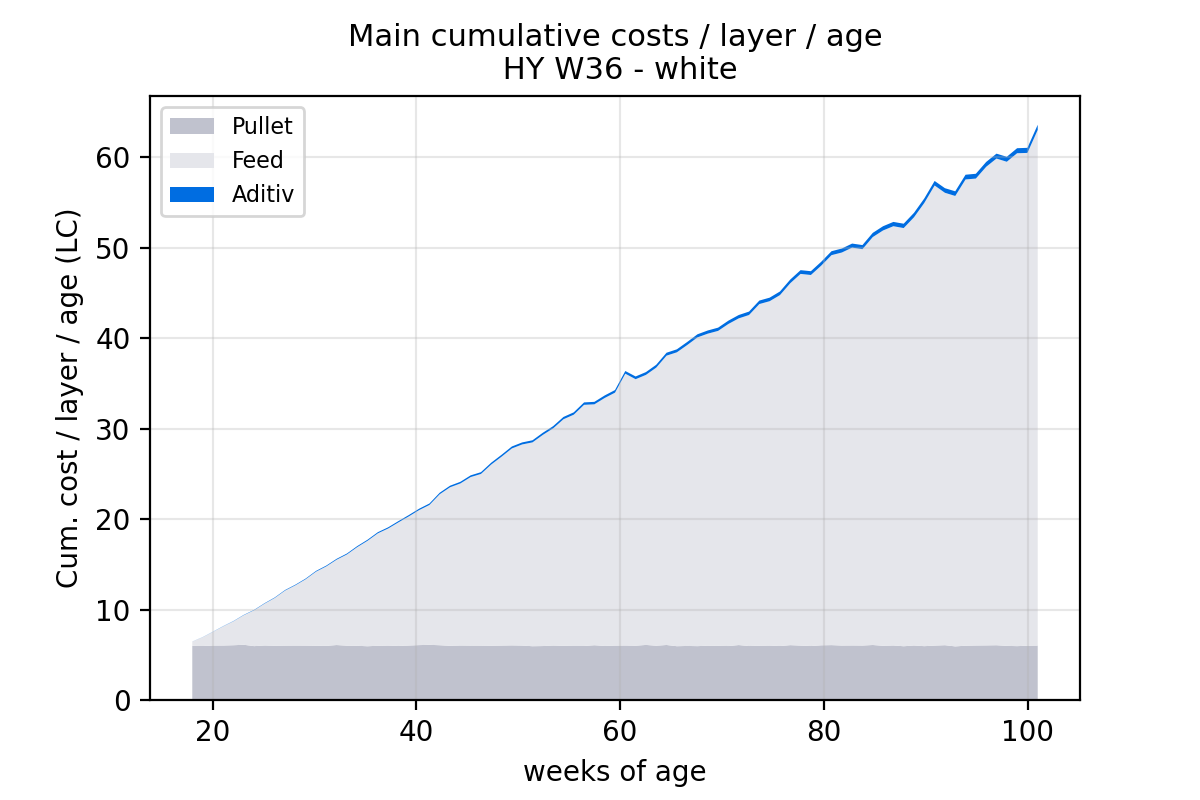
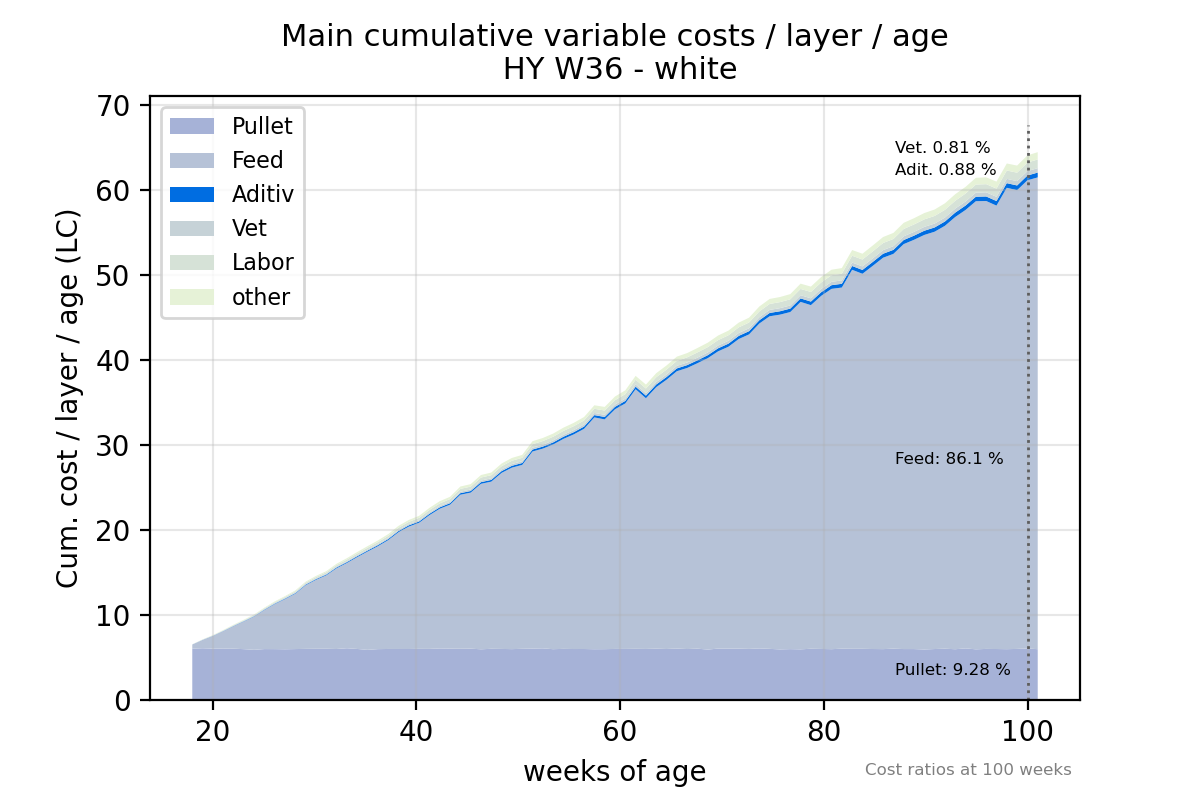
stackplot with annotations

diff --git a/layer_performance_py.py b/layer_performance_py.py
@@ -631,6 +631,9 @@ delta_max_y_1 = delta_cum_median_layer_week_1[delta_cum_median_layer_week_1.argm
 
 weeks_axis =np.linspace(18, production_wks + 18, production_wks)   # creat axis for charts (production weeks)
 
+#min_pullet = np.amin(pullet_cost_median_1)
+
+
 ####################################### cost charts ################################
 #stackplot_colors = ["#d47332", "#377369", "#006de1"]
 #stackplot_labels =['Pullet', 'Feed', 'Aditiv']
@@ -640,6 +643,9 @@ ax.stackplot(weeks_axis,
              pullet_cost_median_1,
              feed_cost_cum_median_week_1_no_add,
              aditiv_cum_cost_median_layer_week_1,
+             vetcost_cum_cost_median_layer_week_1,
+             labor_cum_cost_median_layer_week_1,
+             other_cum_cost_median_layer_week_1,
              colors = stackplot_colors,
              labels = stackplot_labels,
              alpha = 1)
@@ -657,12 +663,53 @@ ax.set_ylabel(stack_ylabel_1,
 ax.set_xlabel(stack_xlabel_1,
               fontsize=fontsize_x_axis_1,
               )
+# text for % of each cost parameter
+
+ax.text(row_anal+5,
+        (feed_cost_cum_median_week_1_no_add[row_anal, ]/2),
+        'Feed: {} %'.format(round_np(feed_perc_cost_cum_median_week_1_no_add[row_anal,])),
+        fontsize = fontsize_annot_1,
+        )
+ax.text(row_anal+5,
+        (pullet_cost_median_1[row_anal, ]/2),
+        'Pullet: {} %'.format(round_np(pullet_perc_cost_median_1[row_anal,])),
+        fontsize = fontsize_annot_1,
+        )
+
+ax.text(row_anal+5,
+        aditiv_cum_cost_median_layer_week_1[row_anal,]/2 +
+         feed_cost_cum_median_week_1_no_add[row_anal, ] +
+         pullet_cost_median_1[row_anal, ],
+        'Adit. {} %'.format(round_np(aditiv_perc_cost_cum_median_week_1[row_anal,])),
+        fontsize = fontsize_annot_1,
+        )
+
+ax.text(row_anal+5,
+        vetcost_cum_cost_q1_layer_week_1[row_anal,]/2 +
+        aditiv_cum_cost_median_layer_week_1[row_anal,] +
+         feed_cost_cum_median_week_1_no_add[row_anal, ] +
+         pullet_cost_median_1[row_anal, ] + 2,
+        'Vet. {} %'.format(round_np(vetcost_perc_cost_cum_median_week_1[row_anal,])),
+        fontsize = fontsize_annot_1,
+        )
+ymin, ymax = plt.ylim()
+ax.vlines(row_anal+18,
+          ymin,
+          ymax,
+          colors='#5d5d5d',
+          linewidth = line_with_1,
+          linestyle = line_sty_1)
+
+ax.text(84, (ymax-ymin)*.13*-1,
+        'Cost ratios at {} weeks'.format(row_anal+18),
+        fontsize = fontsize_annot_1,
+        alpha=.5)
+
 plt.savefig('main_costs_age.png',
             dpi=dpi_charts,
             transparent=-True,
             )
 plt.show()
-
 
 
 ###################################### operational return chart #####################

diff --git a/setup_charts_parameters.py b/setup_charts_parameters.py
@@ -10,7 +10,7 @@ fontsize_title_1 =11
 fontsize_x_axis_1 =10
 fontsize_y_axis_1 =10
 fontsize_legend_1 =8
-fontsize_annot_1 =8
+fontsize_annot_1 =6
 fontsize_copyright =8
 
 fontstyle_label_1 ='normal'  # normal italic oblique
@@ -26,11 +26,24 @@ dpi_charts = 200 # resolution of the graph files
 
 ###########################################################################################
 # Stackplot parameters -  # colors of the stackplots (1 - pullet, 2 - feed, 3 - feed aditiv)
-stackplot_colors = ["#c0c2ce",\
-		    "#e5e6eb",\
- 		     "#006de1"]
+stackplot_colors = [\
+             "#a6b2d7",\
+		     "#b6c2d7",\
+ 		     "#006de1",\
+             '#c6d2d7',\
+             '#d6e2d7',
+             '#e6f2d7'\
+              ]
 
-stackplot_labels =['Pullet', 'Feed', 'Aditiv'] # labels of the stackplots
-stack_title_1 = 'Main cumulative costs / layer / age'
+stackplot_labels =[\
+                   'Pullet',\
+                   'Feed',\
+                   'Aditiv',\
+                   'Vet',\
+                   'Labor',\
+                   'other'\
+                   ] # labels of the stackplots
+
+stack_title_1 = 'Main cumulative variable costs / layer / age'
 stack_ylabel_1 = "Cum. cost / layer / age (LC)"
 stack_xlabel_1 = "weeks of age"
